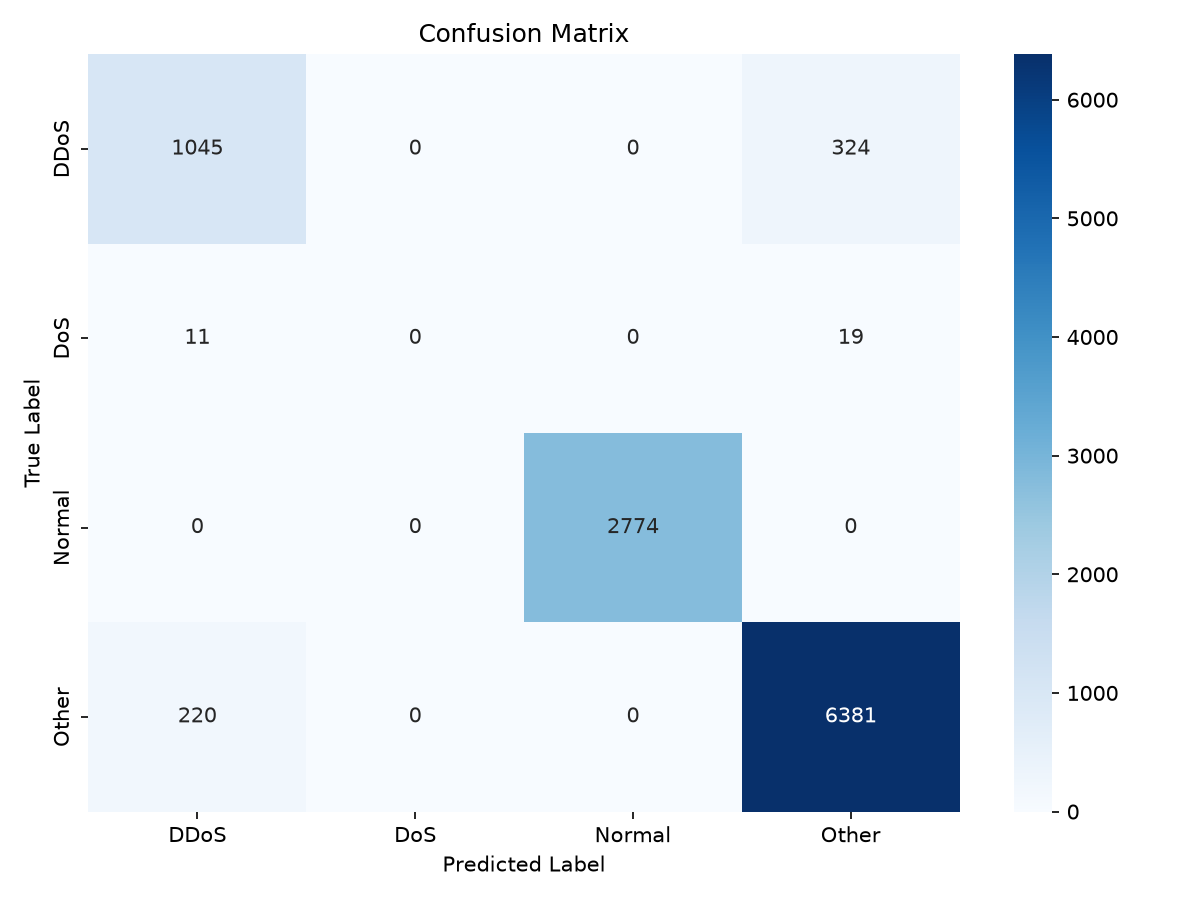
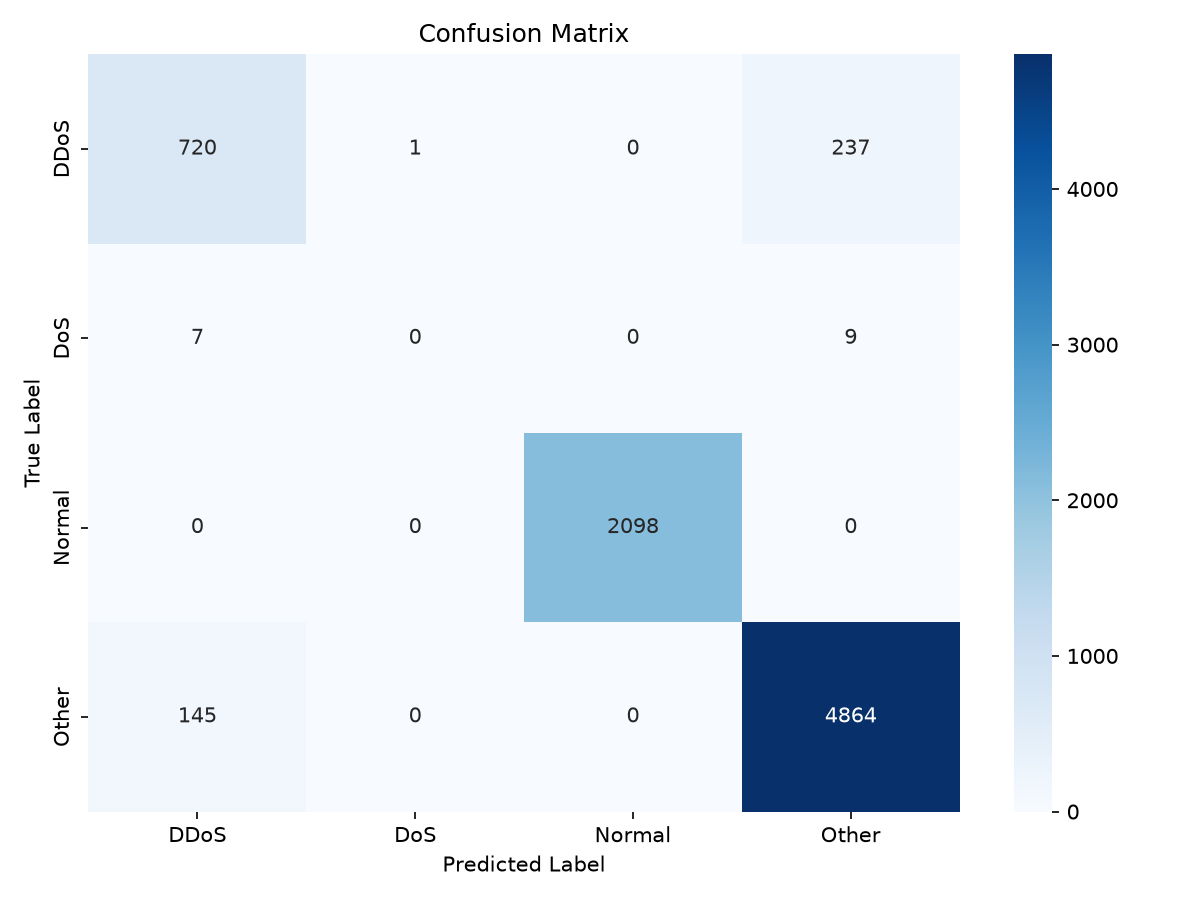
Configure evaluate.py for federated learning model, restore train_robust.py full configurations, and add psutil dependency

diff --git a/train_robust.py b/train_robust.py
@@ -20,6 +20,7 @@ from federated.robust_strategy import (
 from blockchain_ledger import FLBlockchain
 
 # ── Fixed config ─────────────────────────────────────────────────────
+# ── Fixed config ─────────────────────────────────────────────────────
 WINDOW_SIZE = 20
 NUM_ROUNDS = 10
 NUM_CLIENTS = 5
@@ -137,7 +138,7 @@ def run_experiment(strategy_name, num_poisoned, poison_scale, blockchain):
         "num_poisoned": num_poisoned,
         "poison_scale": poison_scale,
         "accuracy": round(acc * 100, 2),
-        "macro_f1": round(f1 * 100, 2),
+        "macro_f1": round(macro_f1 * 100, 2),
         "model_size_mb": round(model_size_mb, 2),
         "comm_cost_per_round_mb": round(comm_cost_per_round_mb, 2),
         "total_comm_cost_mb": round(total_comm_cost_mb, 2),

diff --git a/evaluation/evaluate.py b/evaluation/evaluate.py
@@ -17,7 +17,7 @@ from sklearn.metrics import (
 )
 
 print("Loading model and data...")
-model       = tf.keras.models.load_model("saved_models/best_model.h5")
+model       = tf.keras.models.load_model("saved_models/fl_model.h5")
 X_test      = np.load("saved_models/X_test.npy")
 y_test      = np.load("saved_models/y_test.npy")
 class_names = np.load("saved_models/class_names.npy", allow_pickle=True)
